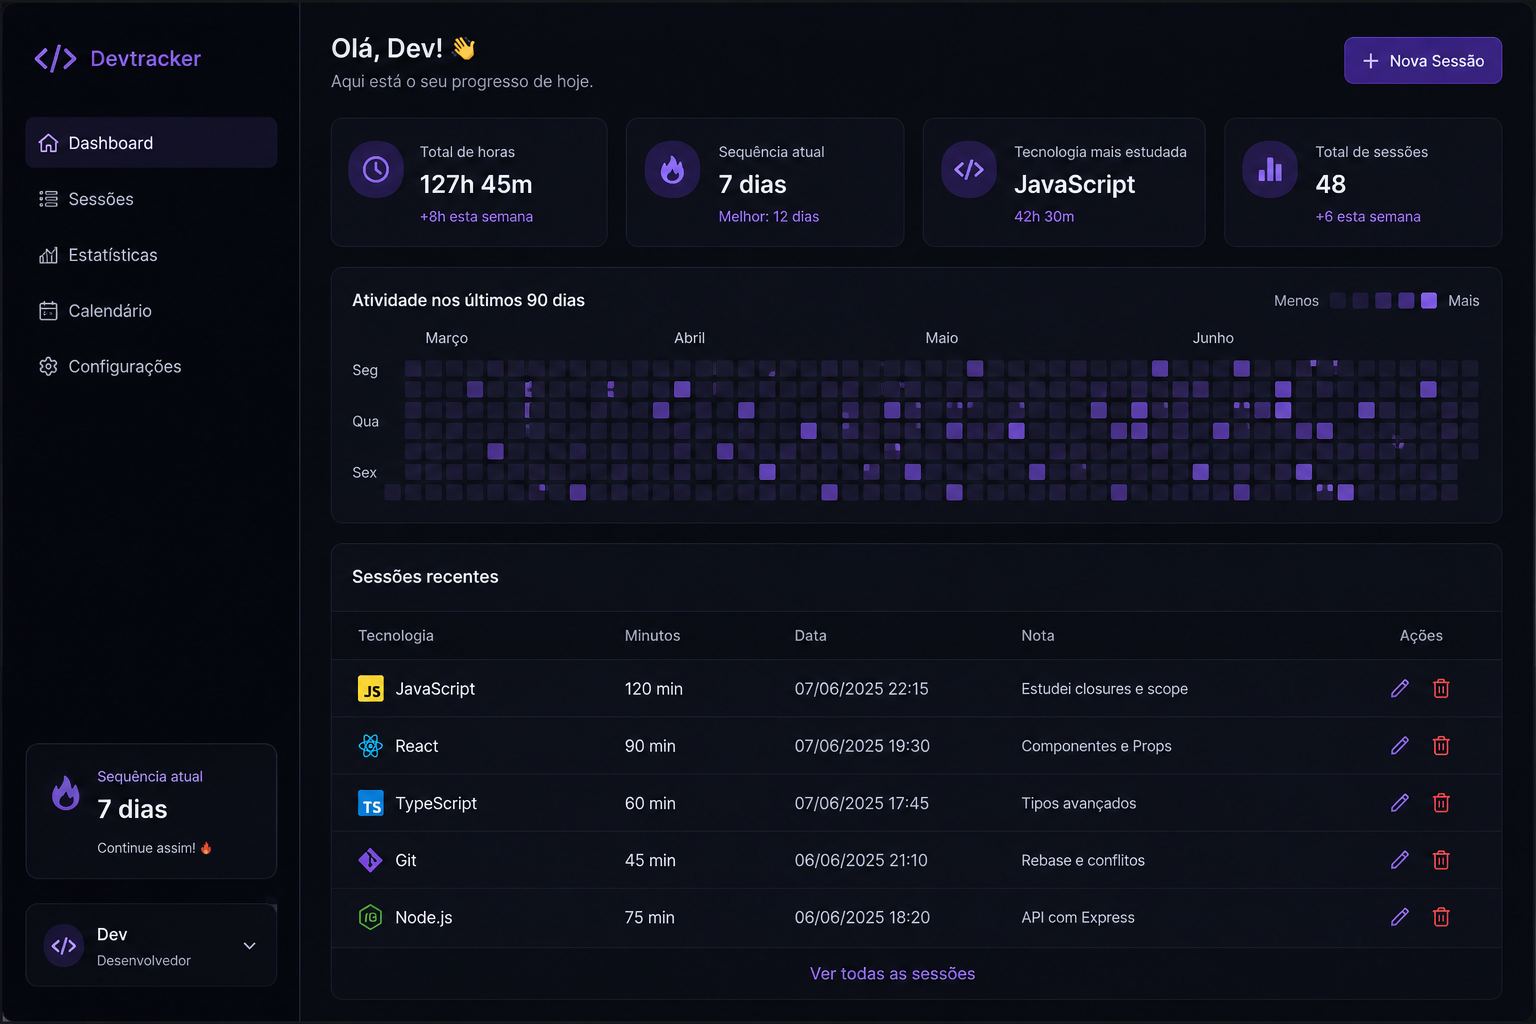
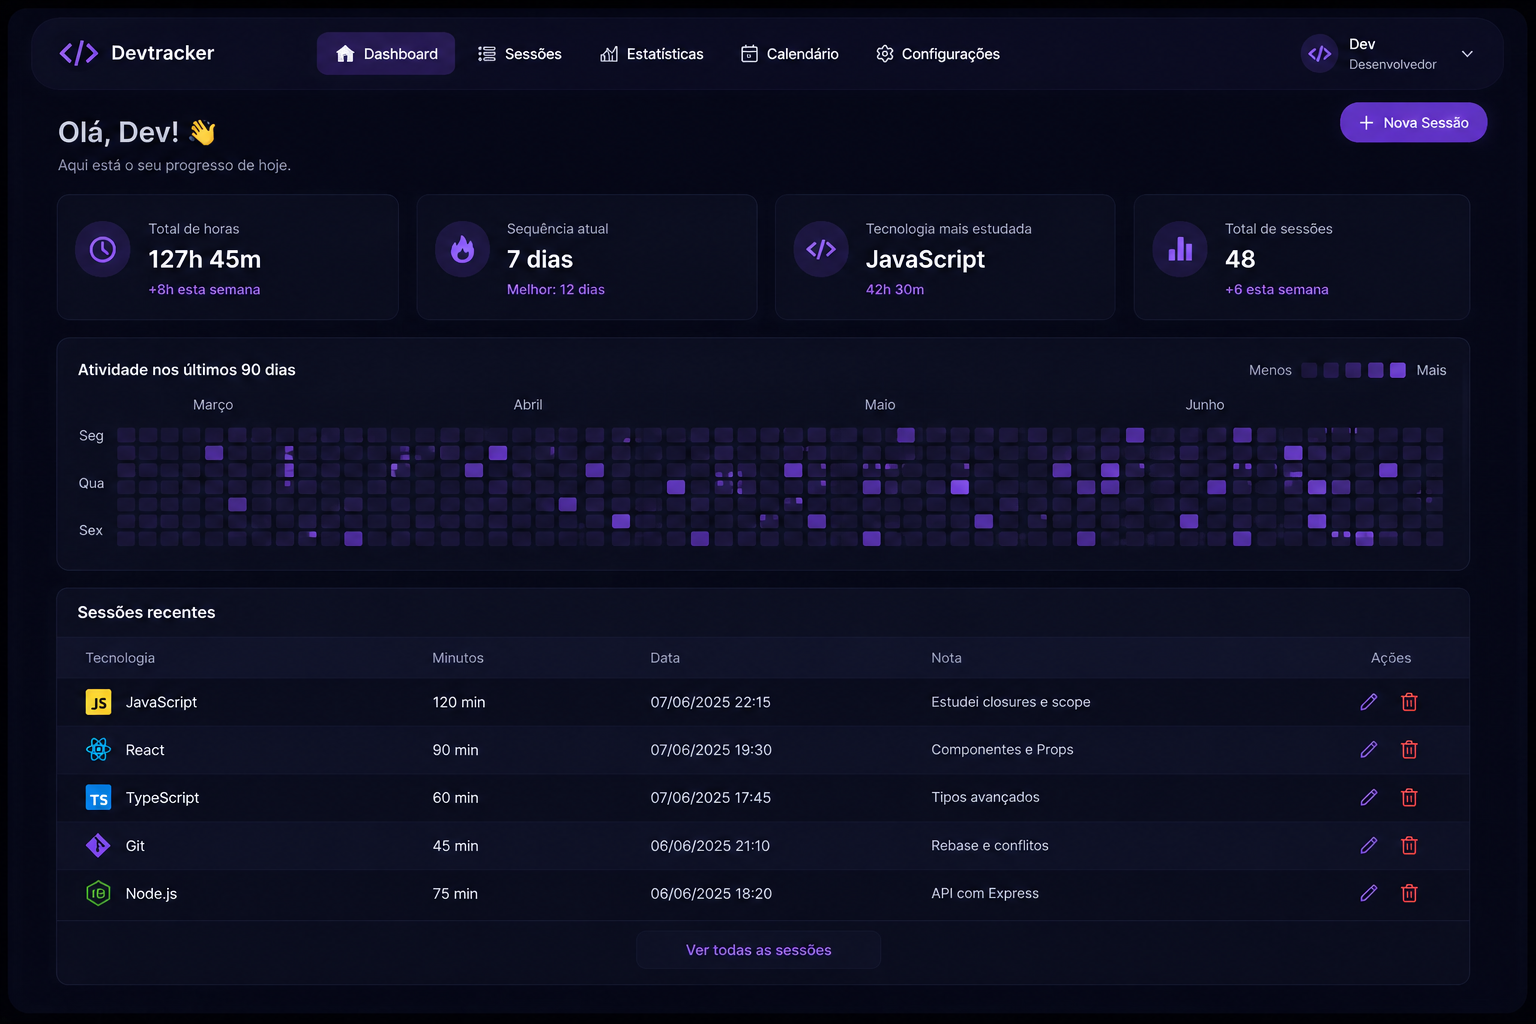
new strutural features

diff --git a/src/app/sessoes/page.tsx b/src/app/sessoes/page.tsx
@@ -1,0 +1,102 @@
+import { Clock, BarChart3, Flame, Trophy, Plus, ChevronDown, FileBraces, CodeXml, CalendarSearch, Star, Download } from "lucide-react";
+
+export default function Sessoes() {
+    return (
+        <div>
+            {/* Sessoes e botao + Nova sessao */}
+            <div className="flex items-center justify-between max-w-[1500px] mx-auto mt-12">
+                <div className="cursor-default">
+                    <h1 className="text-3xl font-medium">Sessões</h1>
+                    <p className="font-medium">Gerencie e acompanhe todas as suas sessões de estudo e código.</p>
+                </div>
+                <div>
+                    <button className="flex items-center gap-1 cursor-pointer font-medium bg-nova-sessao/60 border border-border p-4 rounded-4xl transition-transform duration-200 hover:scale-95 active:scale-80"><Plus size={24} />Nova sessão</button>
+                </div>
+            </div>
+            {/* Card resumo rapido */}
+                <div className="flex flex-col max-w-[1500px] mx-auto mt-8">
+                    <div className="flex flex-col bg-surface p-3 rounded-2xl mr-300 border border-border">
+                        <h2 className="text-2xl">Resumo rápido</h2>
+                        {/* Total hours + Clock div*/}
+                        <div className="flex mt-3 gap-3 text-xl items-center">
+                            <Clock size={27} className="text-accent transition-transform duration-200 hover:scale-95" />
+                            <div>
+                                <span className="text-muted text-base">Total de Horas</span>
+                                <p className="text-2xl font-medium">120h 34m</p>
+                            </div>
+                        </div>
+                        {/* Sessions held + BarChart*/}
+                        <div className="flex gap-3 mt-5 items-center">
+                            <BarChart3 size={27} className="text-accent transition-transform duration-200 hover:scale-95" />
+                            <div>
+                                <span className="text-muted text-base">Sessões realizadas</span>
+                                <p className="text-2xl font-medium">48</p>
+                            </div>
+                            {/* Main Sequence */}
+                        </div>
+                        <div className="flex gap-3 mt-5 items-center">
+                            <Flame size={27} className="text-accent transition-transform duration-200 hover:scale-95" />
+                            <div>
+                                <span className="text-muted text-base">Sequência atual</span>
+                                <p className="text-2xl font-medium">7 dias</p>
+                            </div>
+                            {/* Best Sequence */}
+                        </div>
+                        <div className="flex gap-3 mt-5 items-center">
+                            <Trophy size={27} className="text-accent transition-transform duration-200 hover:scale-95" />
+                            <div className="flex flex-col">
+                                <span className="text-muted text-base">Melhor Sequência</span>
+                                <p className="text-2xl font-medium">14 dias</p>
+                            </div>
+                        </div>
+                    </div>
+                </div>
+            {/* Card filtros */}
+            <div className="flex flex-col max-w-[1500px] mx-auto mt-2">
+                <div className="bg-surface mr-300 rounded-2xl border border-border p-3">
+                    {/* Filtros/Limpar-Filtros */}
+                    <div className="flex items-center gap-29">
+                        <h2 className="text-2xl">Filtros</h2>
+                        <p className="text-sm text-accent font-medium cursor-pointer transition-transform duration-200 hover:scale-95 active:scale-75">Limpar Filtros</p>
+                    </div>
+                    {/* Tecnologias/Select-Box */}
+                    <div>
+                        <p className="mt-4 text-base">Tecnologia</p>
+                        {/* button #1 */}
+                        <div className="">
+                            <button className="cursor-pointer transition-transform duration-200 text-muted hover:scale-95 gap-2 flex items-center bg-background w-full rounded-lg border border-border p-2">
+                                <CodeXml size={19} className="" />
+                                Todas as tecnologias
+                                <ChevronDown className="ml-auto" />
+                            </button>
+                        </div>
+                        {/* button #2 */}
+                        <p className="mt-4 text-base">Período</p>
+                        <div className="">
+                            <button className="cursor-pointer transition-transform duration-200 text-muted hover:scale-95 flex items-center gap-2 bg-background w-full rounded-lg border border-border p-2">
+                                <CalendarSearch size={19} />
+                                Todos os períodos
+                                <ChevronDown className="ml-auto" />
+                            </button>
+                        </div>
+                        {/* button #3 */}
+                        <p className="mt-4 text-base">Nota</p>
+                        <div className="">
+                            <button className="cursor-pointer transition-transform duration-200 text-muted hover:scale-95 flex items-center gap-2 bg-background w-full rounded-lg border border-border p-2">
+                                <Star size={19} />
+                                Todas as notas
+                                <ChevronDown className="ml-auto" />
+                            </button>
+                        </div>
+                    </div>
+                    <div className="bg-surface mt-10">
+                        <button className="flex items-center gap-3 mx-auto bg-nova-sessao p-3 rounded-xl transition-transform duration-200 hover:scale-95 active:scale-75 cursor-pointer">
+                            <Download />
+                            Exportar dados
+                        </button>
+                    </div>
+                </div>
+            </div>
+        </div>
+    );
+}

diff --git a/src/app/layout.tsx b/src/app/layout.tsx
@@ -1,8 +1,10 @@
 import type { Metadata } from "next";
 import { Geist, Geist_Mono } from "next/font/google";
 import "./globals.css";
-import { CodeXml, House, ChartBar, ListCollapse, ChartNoAxesCombined, Calendar1, Bolt } from "lucide-react";
-
+import { CodeXml, House, ChartBar, ListCollapse, ChartNoAxesCombined, Calendar1, Bolt, ChevronDown  } from "lucide-react";
+import Link from "next/link"
+import { motion } from "motion/react"
+ 
 const geistSans = Geist({
   variable: "--font-geist-sans",
   subsets: ["latin"],
@@ -25,21 +27,44 @@ export default function RootLayout({ children }: LayoutProps<"/">) {
       className={`${geistSans.variable} ${geistMono.variable} h-full antialiased`}
     >
       <body>
-        <div className="flex h-screen">
-          <aside className="w-75 bg-surface py-9 flex flex-col gap-12 hidden md:flex">
-            <p className="text-accent text-2xl font-medium flex items-center gap-3 px-5">
-              <CodeXml strokeWidth={2.5} size={37} className="shrink-0"/>Devtracker
-              </p>
-            <nav className="flex flex-col gap-4 items-start px-3">
-             <a href="/" className="flex items-center gap-2 font-medium text-lg bg-accent/20 rounded-lg p-3 w-full"><House size={27} />Dashboard</a>
-             <a href="/" className="flex items-center gap-2 font-medium text-lg p-3 rounded-lg w-full hover:bg-accent/10"><ListCollapse size={27} />Sessões</a>
-             <a href="/" className="flex items-center gap-2 font-medium text-lg p-3 rounded-lg w-full hover:bg-accent/10"><ChartNoAxesCombined size={27} />Estatísticas</a>
-             <a href="/" className="flex items-center gap-2 font-medium text-lg p-3 rounded-lg w-full hover:bg-accent/10"><Calendar1 size={27} />Calendário</a>
-             <a href="/" className="flex items-center gap-2 font-medium text-lg p-3 rounded-lg w-full hover:bg-accent/10"><Bolt size={27} />Configurações</a>
-            </nav>
-          </aside>
-          {children}
+        <div>
+        <header className="border border-border flex items-center justify-between bg-surface rounded-3xl px-10 max-w-[1600px] mx-auto my-6">
+          <Link href="/" className="flex items-center gap-2 font-bold text-xl transition-transform duration-200 hover:scale-95 active:scale-80"><CodeXml size={34} className="text-accent" strokeWidth={2.5} />
+          <span className="hidden md:inline font-bold">Devtracker</span>
+          </Link>
+          <nav className="flex items-center gap-4">
+            <Link href="/" className="flex items-center gap-1 text-lg p-3 hover:bg-accent/40 rounded-lg transition-transform duration-200 hover:scale-95 active:scale-80">
+            <House size={20}/>
+            <span className="hidden md:inline">Dashboard</span>
+            </Link>
+            <Link href="/sessoes" className="flex items-center gap-1 text-lg p-3 hover:bg-accent/40 rounded-lg transition-transform duration-200 hover:scale-95 active:scale-80">
+            <ListCollapse size={20}/>
+            <span className="hidden md:inline">Sessões</span>
+            </Link>
+            <Link href="/" className="flex items-center gap-1 text-lg p-3 hover:bg-accent/40 rounded-lg transition-transform duration-200 hover:scale-95 active:scale-80">
+            <ChartNoAxesCombined size={20}/>
+            <span className="hidden md:inline">Estatísticas</span>
+            </Link>
+            <Link href="/" className="flex items-center gap-1 text-lg p-3 hover:bg-accent/40 rounded-lg transition-transform duration-200 hover:scale-95 active:scale-80">
+            <Calendar1 size={20}/>
+            <span className="hidden md:inline">Calendário</span>
+            </Link>
+            <Link href="/" className="flex items-center gap-1 text-lg p-3 hover:bg-accent/40 rounded-lg transition-transform duration-200 hover:scale-95 active:scale-80">
+            <Bolt size={20}/>
+            <span className="hidden md:inline">Configurações</span>
+            </Link>
+          </nav>
+          <div className="flex items-center gap-2 cursor-pointer link hover:bg-accent/40 rounded-lg p-3 transition-transform duration-200 hover:scale-95 active:scale-80">
+            <div className="bg-accent/20 rounded-full p-3"><CodeXml size={26}/></div>
+            <div className="flex flex-col">
+              <span className="">Dev</span>
+              <span className="text-muted hidden md:inline">Desenvolvedor</span>
+            </div>
+            <ChevronDown size={16} className="text-muted hidden md:inline"/>
+          </div>
+        </header>
         </div>
+        {children}
       </body>
     </html>
   );

diff --git a/src/app/globals.css b/src/app/globals.css
@@ -1,16 +1,20 @@
 @import "tailwindcss";
 
 :root {
-  --background: #080a12;
+  --background: #050717;
   --foreground: #e6edf3;
-  --surface: #05060d;
-  --border: #30363d;
+  --surface: #0b0c21;
+  --border: #191a28;
   --muted: #8b949e;
   --accent: #734bc6;
+  --fundo: #1f2339;
   --accent-hover: #a371f7;
+  --nova-sessao: #5f2add;
 }
 
 @theme inline {
+  --color-nova-sessao: var(--nova-sessao);
+  --color-fundo: var(--fundo);
   --color-background: var(--background);
   --color-foreground: var(--foreground);
   --color-surface: var(--surface);
@@ -23,7 +27,7 @@
 }
 
 body {
-  background: var(--background);
+  background: linear-gradient(140deg, #010514 20%, #060321 40%, #020615 80%);
   color: var(--foreground);
   font-family: Arial, Helvetica, sans-serif;
 }

diff --git a/CONVENTIONS.md b/CONVENTIONS.md
@@ -36,6 +36,30 @@ Dark theme, paleta inspirada no GitHub dark + roxo como cor de destaque (accent)
 | `<label>` | rótulo de um campo de formulário | inline, texto associado a um `<input>` |
 | `<form>` | agrupa campos de um formulário | bloco |
 
+## Tags de texto
+
+| Tag | Significa | Como renderiza |
+|---|---|---|
+| `<a href="...">` | link, navega para outra URL (já listado acima) | inline, azul sublinhado por padrão |
+| `<strong>` | texto de importância forte | inline, **negrito** |
+| `<b>` | texto destacado (sem peso semântico de importância) | inline, **negrito** |
+| `<em>` | ênfase | inline, *itálico* |
+| `<i>` | texto em voz/estilo diferente (sem ênfase semântica) | inline, *itálico* |
+| `<small>` | texto secundário/legal | inline, fonte menor |
+| `<mark>` | texto marcado/destacado | inline, fundo amarelo por padrão |
+| `<del>` | texto removido | inline, ~~riscado~~ |
+| `<ins>` | texto inserido | inline, sublinhado |
+| `<sub>` | subscrito | inline, menor e abaixo da linha (ex: H₂O) |
+| `<sup>` | sobrescrito | inline, menor e acima da linha (ex: x²) |
+| `<code>` | trecho de código | inline, fonte monoespaçada |
+| `<pre>` | texto pré-formatado (preserva espaços/quebras) | bloco, fonte monoespaçada |
+| `<blockquote>` | citação longa | bloco, com margem/recuo |
+| `<q>` | citação curta | inline, aspas automáticas |
+| `<abbr title="...">` | abreviação/sigla | inline, sublinhado pontilhado, mostra `title` no hover |
+| `<br>` | quebra de linha forçada | não tem conteúdo, só quebra a linha |
+| `<hr>` | linha divisória horizontal | bloco, linha fina |
+| `<time datetime="...">` | data/hora legível por máquina | inline, sem estilo próprio |
+
 Exemplo de como um trecho comum fica montado:
 ```html
 <nav>
@@ -44,6 +68,45 @@ Exemplo de como um trecho comum fica montado:
 </nav>
 ```
 Renderiza como dois links um do lado do outro (porque `<a>` é inline), sem estilo — texto azul sublinhado, um espaço entre eles vindo da quebra de linha no código.
+
+# Escalas Tailwind (mais usadas)
+
+## Espaçamento (padding, margin, gap, width, height...)
+| Classe | rem | px |
+|---|---|---|
+| `1` | 0.25rem | 4px |
+| `2` | 0.5rem | 8px |
+| `3` | 0.75rem | 12px |
+| `4` | 1rem | 16px |
+| `6` | 1.5rem | 24px |
+| `8` | 2rem | 32px |
+| `10` | 2.5rem | 40px |
+| `12` | 3rem | 48px |
+| `16` | 4rem | 64px |
+| `20` | 5rem | 80px |
+| `24` | 6rem | 96px |
+
+Direções: `p`/`m` (todos os lados), `x` (horizontal), `y` (vertical), `t`/`b`/`l`/`r` (um lado só). Ex: `px-4`, `mt-8`.
+
+## Tamanho de texto (`text-*`)
+`xs` < `sm` < `base` (padrão) < `lg` < `xl` < `2xl` < `3xl` < `4xl`...
+
+## Peso da fonte (`font-*`)
+`thin` (100) < `light` (300) < `normal` (400, padrão) < `medium` (500) < `semibold` (600) < `bold` (700) < `black` (900)
+
+## Arredondamento (`rounded-*`)
+`sm` < padrão (sem sufixo) < `md` < `lg` < `xl` < `2xl` < `3xl` < `full` (círculo/pílula)
+
+## Largura máxima (`max-w-*`)
+`sm` (384px) < `md` (448px) < `lg` (512px) < `xl` (576px) < `2xl` (672px) < ... < `7xl` (1280px, o maior nomeado)
+
+## Breakpoints (responsividade, `sm:`/`md:`/etc, sempre "a partir de")
+`sm` 640px | `md` 768px | `lg` 1024px | `xl` 1280px | `2xl` 1536px
+
+Inverso (só **abaixo** de um tamanho): prefixo `max-` — ex: `max-md:hidden`.
+
+## Cursor (`cursor-*`)
+`pointer` (clicável) | `default` (seta normal) | `not-allowed` (bloqueado) | `wait` (carregando) | `text` (seleção de texto)
 
 # Stack Planejada
 **TypeScript → React → Next.js → Tailwind → Node → Postgres/Prisma**
